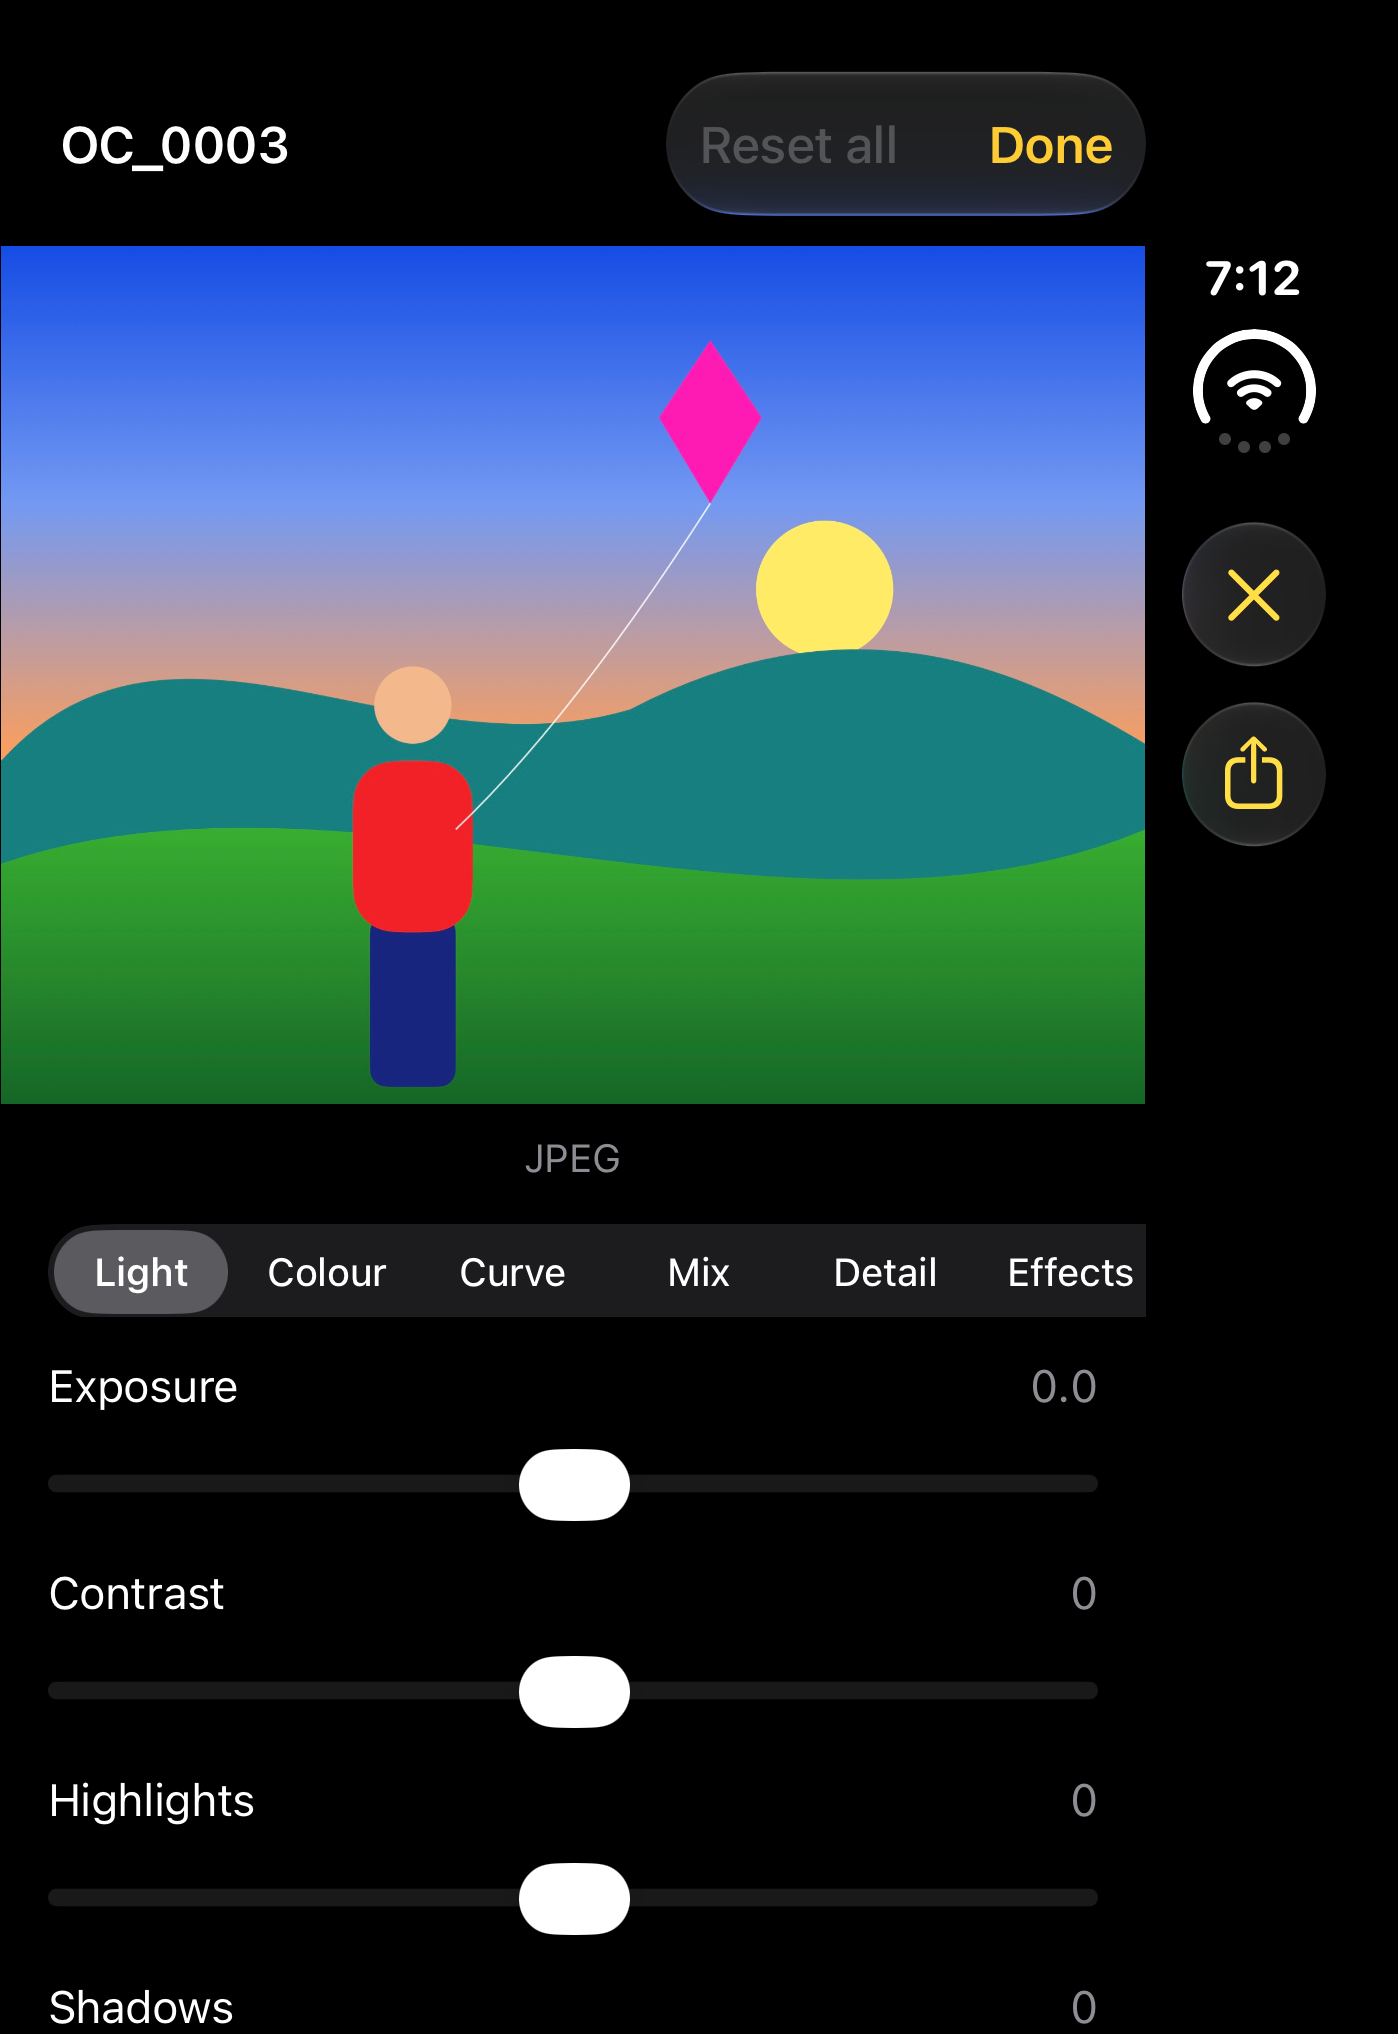
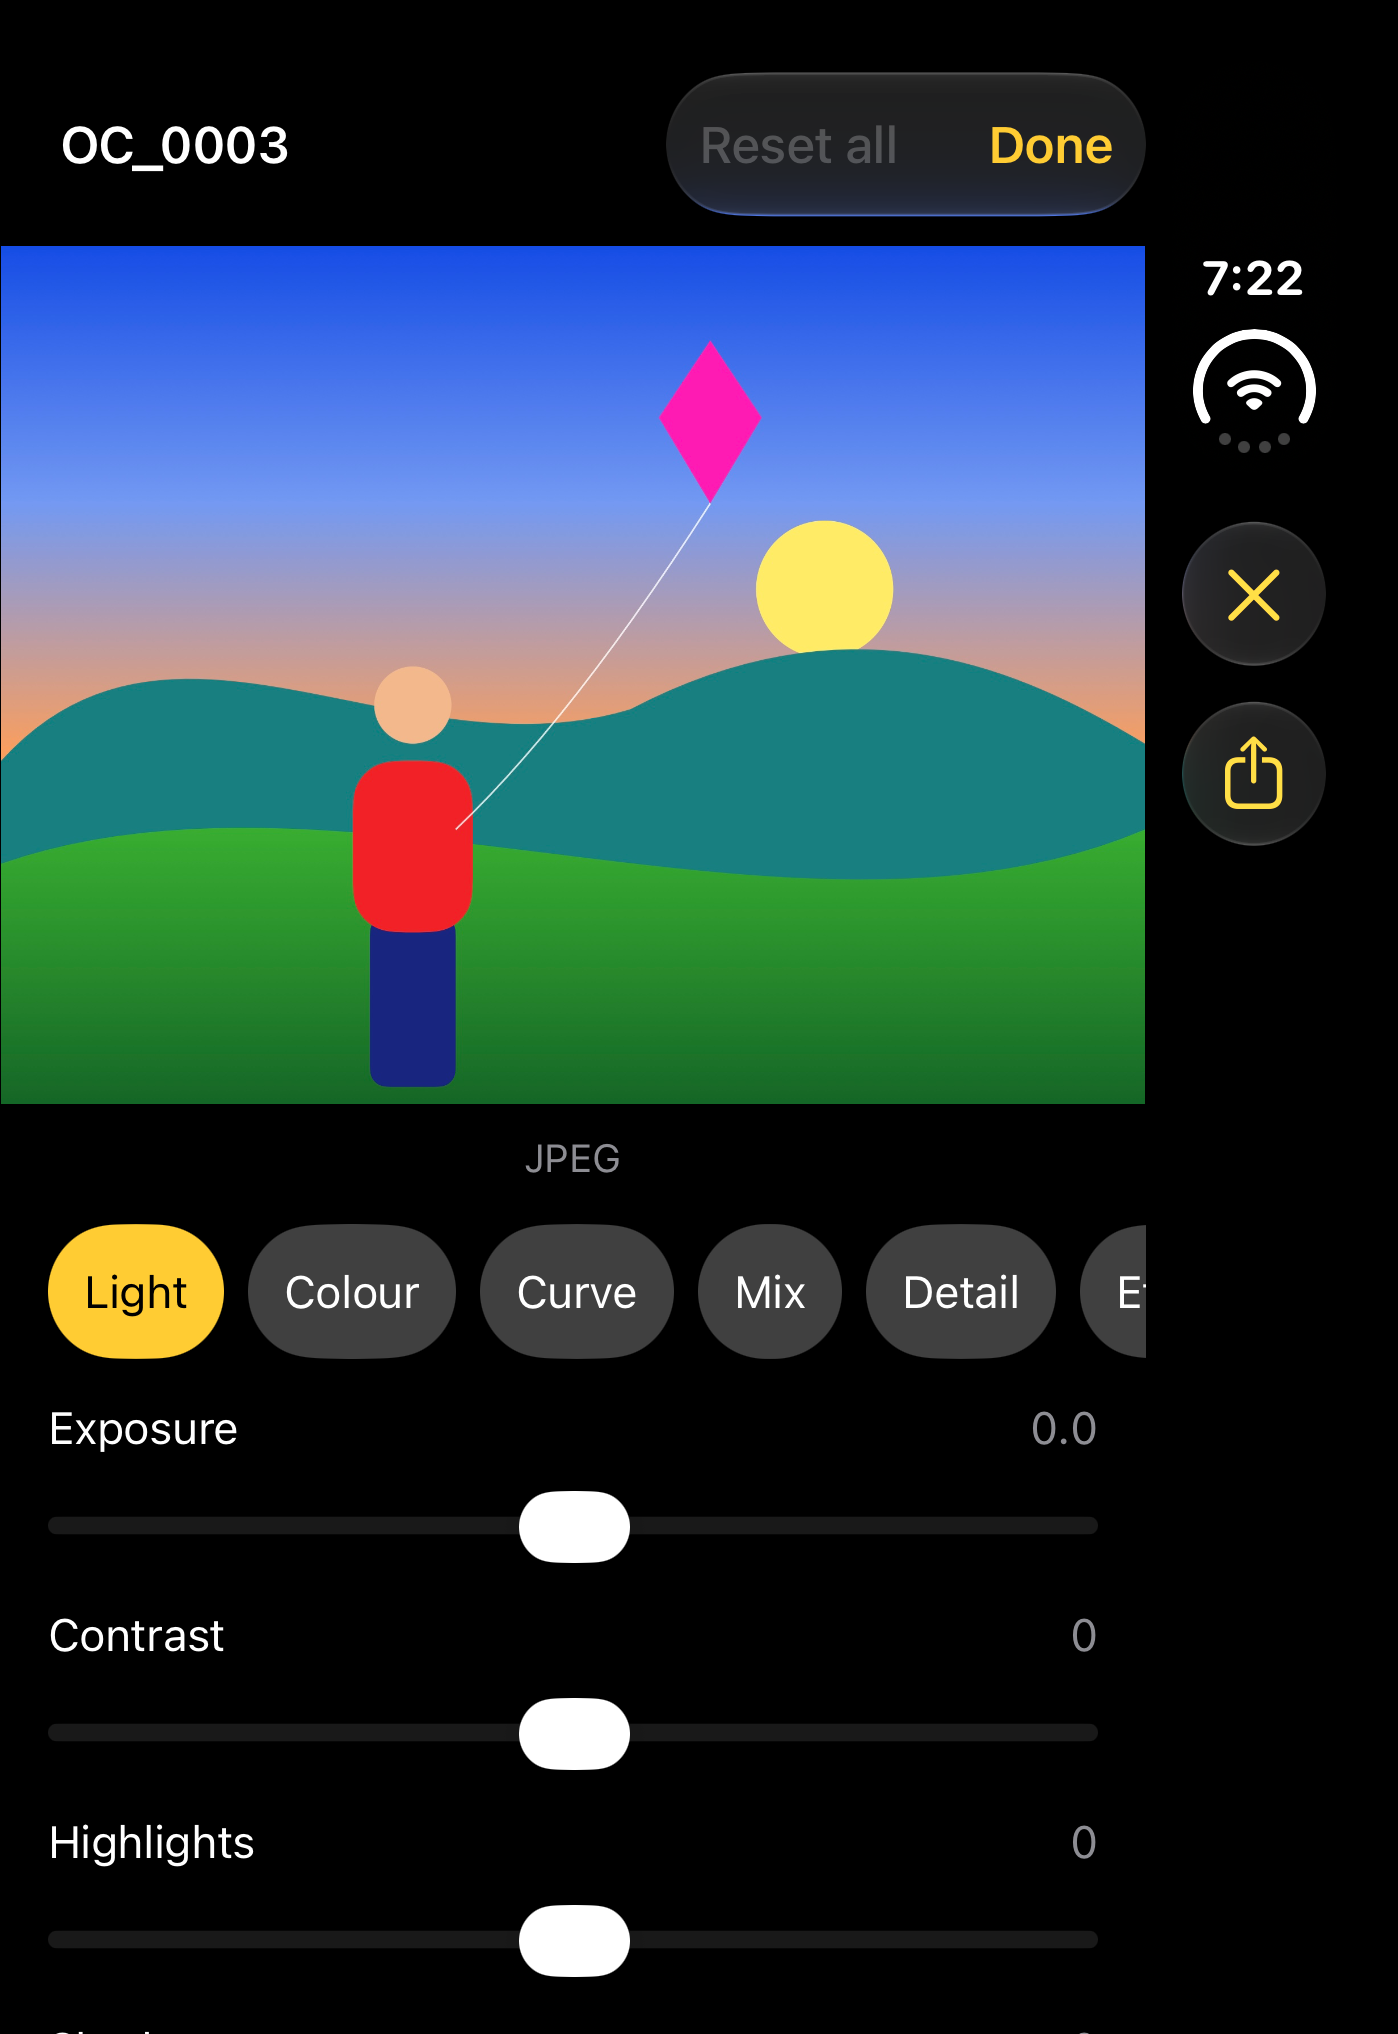
fix: make the group picker a scrolling row of buttons so a drag scrolls it

Changed region(s): [[0.0308, 0.5885, 0.8305, 1.0], [0.8612, 0.1239, 0.9227, 0.1549], [0.769, 0.9912, 0.7997, 1.0]]

diff --git a/OpenCam/UI/Editor/ScrollingPicker.swift b/OpenCam/UI/Editor/ScrollingPicker.swift
@@ -1,34 +1,65 @@
 import SwiftUI
 
-/// A system segmented picker at its natural width, so every segment keeps its full title, scrolling sideways when it is wider
-/// than the space. It opens scrolled to the end that holds the selection.
+/// A row of system buttons, one per option with its full title, scrolling sideways when it is wider than the space; the
+/// selected one is filled. A drag that starts on a button scrolls the row (a segmented control would keep it), and the
+/// selection is kept in view. It reads as one control named `title`.
 struct ScrollingPicker<Value: Hashable>: View {
     let title: String
     @Binding var selection: Value
     let options: [Value]
     let label: (Value) -> String
 
+    /// The bordered styles add about 6.5 pt above and below the label (measured, iOS 27.2), so each button is
+    /// `Theme.Size.minTarget` tall.
+    private static var labelHeight: CGFloat { Theme.Size.minTarget - 13 }
+
     var body: some View {
-        ScrollView(.horizontal) {
-            Picker(title, selection: $selection) {
-                ForEach(options, id: \.self) { option in
-                    Text(label(option)).tag(option)
+        ScrollViewReader { proxy in
+            ScrollView(.horizontal) {
+                HStack(spacing: Theme.Space.s) {
+                    ForEach(options, id: \.self) { option in
+                        button(for: option)
+                            .id(option)
+                    }
                 }
+                .padding(.horizontal, Theme.Space.l)
             }
-            .pickerStyle(.segmented)
-            .labelsHidden()
-            .fixedSize()
-            .padding(.horizontal, Theme.Space.l)
+            .scrollIndicators(.hidden)
+            .scrollBounceBehavior(.basedOnSize, axes: .horizontal)
+            // A scroll view draws past its frame along its axis: into the safe area (the outer display's system strip, in
+            // portrait) and while it rubber-bands. The row is cut at its own sides, so a button at the edge stops there; above
+            // and below it is left free.
+            .mask { Rectangle().padding(.vertical, -Theme.Space.l) }
+            // The opening offset only: the end that holds the selection.
+            .defaultScrollAnchor(isSelectionInLastHalf ? .trailing : .leading, for: .initialOffset)
+            .onAppear { proxy.scrollTo(selection) }
+            .onChange(of: selection) { _, chosen in
+                withAnimation { proxy.scrollTo(chosen) }
+            }
         }
-        .scrollIndicators(.hidden)
-        .scrollBounceBehavior(.basedOnSize, axes: .horizontal)
-        // A scroll view draws past its frame along its axis: into the safe area (the outer display's system strip, in portrait)
-        // and while it rubber-bands. The strip is cut at its own sides, so a segment at the edge stops there; above and below
-        // it is left free for the selection's lift while it is touched.
-        .mask { Rectangle().padding(.vertical, -Theme.Space.l) }
-        // Only the opening offset: a later choice never moves the strip under the finger.
-        .defaultScrollAnchor(isSelectionInLastHalf ? .trailing : .leading, for: .initialOffset)
         .fixedSize(horizontal: false, vertical: true)
+        .accessibilityElement(children: .contain)
+        .accessibilityLabel(title)
+    }
+
+    /// The selected option is filled in the accent with dark text, which white text on the light accent would not be
+    /// legible against; the others are neutral, so the row does not compete with the panel's own accent controls.
+    @ViewBuilder private func button(for option: Value) -> some View {
+        let isSelected = option == selection
+        let button = Button { selection = option } label: {
+            Text(label(option))
+                .font(.subheadline)
+                .lineLimit(1)
+                .fixedSize()
+                .frame(minHeight: Self.labelHeight)
+                .foregroundStyle(isSelected ? Color.black : Color.primary)
+        }
+        .accessibilityAddTraits(isSelected ? .isSelected : [])
+        if isSelected {
+            button.buttonStyle(.borderedProminent)
+        } else {
+            button.buttonStyle(.bordered).tint(.primary)
+        }
     }
 
     private var isSelectionInLastHalf: Bool {
